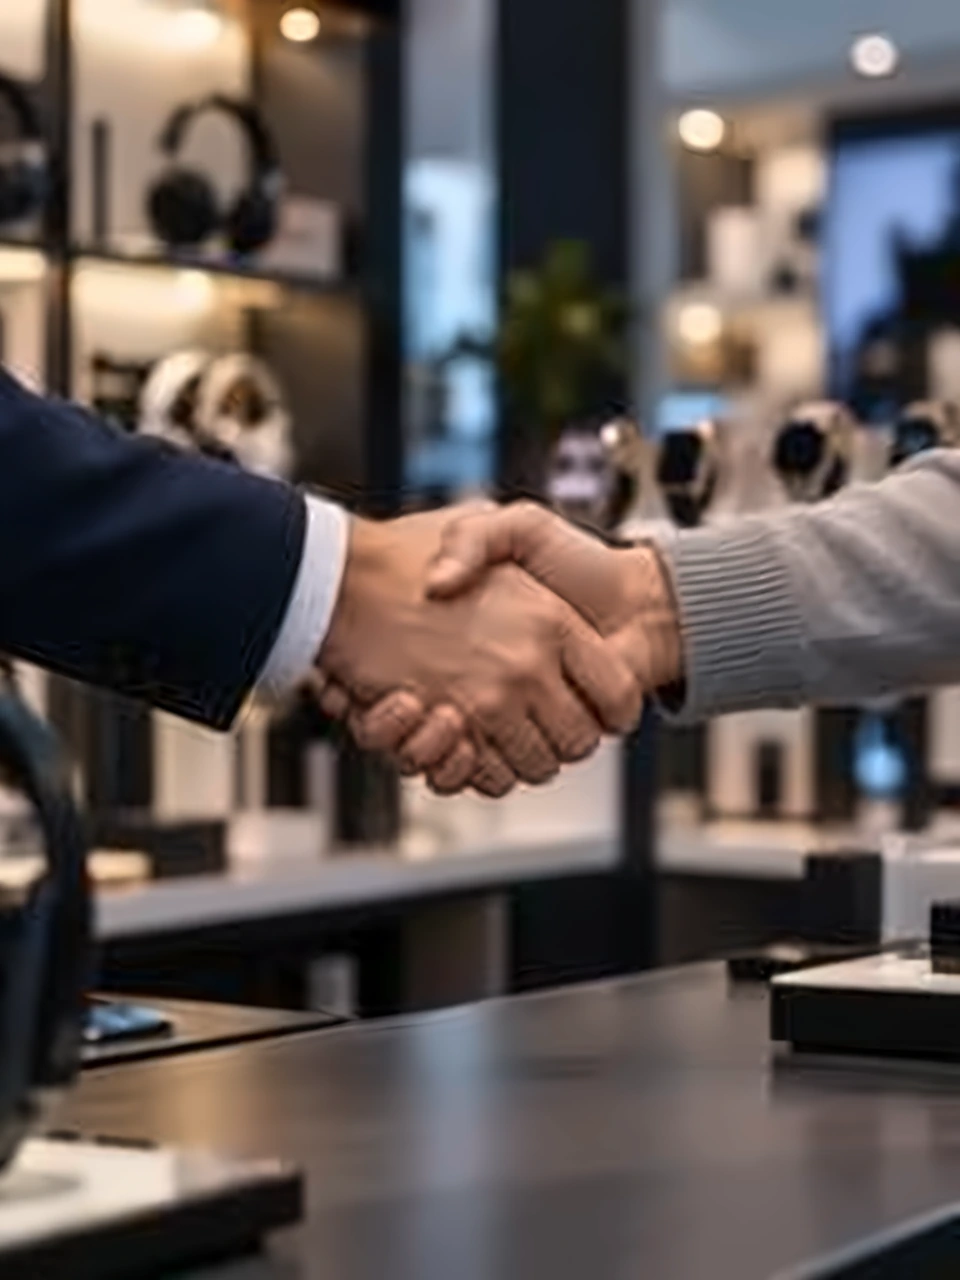
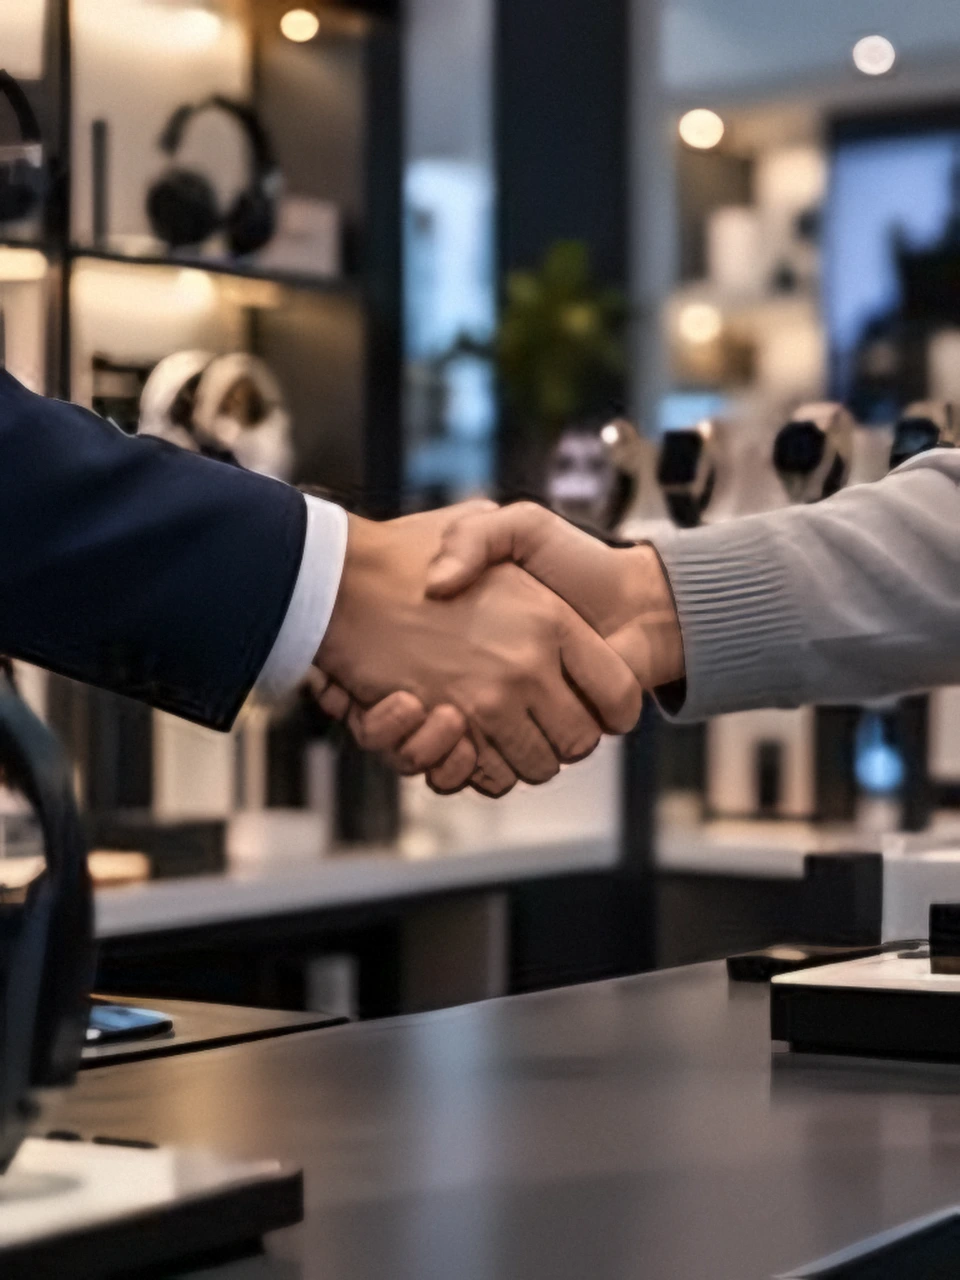
feat(video): sharper provisional in-store stills (EDSR + Real-ESRGAN blend, fine grain)
Still the 192x256 hosted previews (the full-resolution files are on www.figma.com, which the
sandbox network policy denies), but now upscaled with a 50/50 blend of two models: EDSR keeps the
natural textures (knit, skin) and Real-ESRGAN gives crisp edges (cuffs, fingers, tablet rim),
then a touch of fine grain restores photographic texture. The tablet quad re-measures to the same
pixels (+-1). upscale.py documents and reproduces the procedure.

Claude-Session: https://claude.ai/code/session_01UU8UtRBHeLvaLSRmxmduEJ

diff --git a/video/src/people.ts b/video/src/people.ts
@@ -23,8 +23,8 @@ export const HANDOFF_FG = staticFile("people/handoff-fg.webp");
  * border. Measured with `python3 tools/people/measure_quad.py public/people/handoff.webp` — re-run it if the image changes.
  */
 export const HANDOFF_QUAD: Quad = [
-  [229, 233],
-  [648, 216],
-  [702, 818],
+  [228, 231],
+  [649, 216],
+  [702, 819],
   [268, 849],
 ];

diff --git a/video/tools/people/upscale.py b/video/tools/people/upscale.py
@@ -1,22 +1,30 @@
 #!/usr/bin/env python3
 """Fallback for when only the 192x256 hosted previews of the AI stills are available (the full-resolution files sit on a host the
-sandbox network policy denies): removes the JPEG blocking, upscales 4x with EDSR and writes public/people/<id>.webp (960x1280).
+sandbox network policy denies): cleans the JPEG blocking, upscales 4x and writes public/people/<id>.webp (960x1280).
+
+Two upscalers are blended 50/50, because each fails differently on an ~8 KB preview: EDSR keeps natural textures (knit, skin) but is soft,
+Real-ESRGAN gives crisp edges but paints flat, illustration-like surfaces. A touch of fine grain then puts back photographic texture.
 
     curl -L -o EDSR_x4.pb https://raw.githubusercontent.com/Saafke/EDSR_Tensorflow/master/models/EDSR_x4.pb      # 38 MB, not committed
-    pip install opencv-contrib-python-headless
+    pip install realesrgan-ncnn-py && pip install --force-reinstall --no-deps opencv-contrib-python-headless
+    #   ^ the wheel bundles the Real-ESRGAN models but pulls in plain opencv-python (no dnn_superres): reinstall the contrib build last
+    sudo apt-get install libomp5-18 mesa-vulkan-drivers libvulkan1                      # Linux without a GPU: software Vulkan (lavapipe)
     python3 tools/people/upscale.py --model EDSR_x4.pb [handoff bag handshake store]
 
 Reads tools/people/previews/<id>.jpg. An upscaler cannot recover detail that is not in the preview, so these files are PROVISIONAL:
 `node tools/people/fetch.mjs` replaces them with the real full-resolution images (then re-run measure_quad.py on the hand-off).
+Without Real-ESRGAN installed the script falls back to EDSR alone (`--no-esrgan` forces that).
 """
 import argparse
 import pathlib
 import sys
 
 import cv2
+import numpy as np
 
 ROOT = pathlib.Path(__file__).resolve().parents[2]
 ALL = ["handoff", "bag", "handshake", "store"]
+ESRGAN_X4PLUS = 3  # index of "realesrgan-x4plus" (the photographic model) in realesrgan-ncnn-py
 
 
 def main() -> int:
@@ -24,23 +32,42 @@ def main() -> int:
     ap.add_argument("ids", nargs="*", default=ALL)
     ap.add_argument("--model", default="EDSR_x4.pb", help="path to EDSR_x4.pb")
     ap.add_argument("--out", default=str(ROOT / "public" / "people"))
+    ap.add_argument("--no-esrgan", action="store_true", help="EDSR only")
+    ap.add_argument("--grain", type=float, default=3.2, help="sigma of the fine grain added at the end (0-255 scale)")
     a = ap.parse_args()
 
     sr = cv2.dnn_superres.DnnSuperResImpl.create()
     sr.readModel(a.model)
     sr.setModel("edsr", 4)
+    esr = None
+    if not a.no_esrgan:
+        try:
+            from PIL import Image
+            from realesrgan_ncnn_py import Realesrgan
+
+            esr = Realesrgan(gpuid=0, tta_mode=False, tilesize=0, model=ESRGAN_X4PLUS)
+        except Exception as e:  # noqa: BLE001 - optional dependency
+            print(f"(Real-ESRGAN unavailable: {e}; using EDSR alone)", file=sys.stderr)
+
     for i in a.ids:
         img = cv2.imread(str(ROOT / "tools" / "people" / "previews" / f"{i}.jpg"))
         if img is None:
             print(f"✗ {i}: no preview", file=sys.stderr)
             return 1
         img = cv2.fastNlMeansDenoisingColored(img, None, 3, 3, 5, 15)  # the previews are ~8 KB JPEGs: take the blocking out first
-        up = sr.upsample(img)  # 768 x 1024
-        up = cv2.resize(up, (960, 1280), interpolation=cv2.INTER_LANCZOS4)
-        up = cv2.addWeighted(up, 1.35, cv2.GaussianBlur(up, (0, 0), 1.3), -0.35, 0)  # mild unsharp mask
+        up = cv2.resize(sr.upsample(img), (960, 1280), interpolation=cv2.INTER_LANCZOS4)
+        up = cv2.addWeighted(up, 1.35, cv2.GaussianBlur(up, (0, 0), 1.3), -0.35, 0)  # mild unsharp mask on the EDSR branch
+        if esr is not None:
+            out = esr.process_pil(Image.fromarray(cv2.cvtColor(img, cv2.COLOR_BGR2RGB)))
+            gan = cv2.resize(cv2.cvtColor(np.asarray(out), cv2.COLOR_RGB2BGR), (960, 1280), interpolation=cv2.INTER_LANCZOS4)
+            up = cv2.addWeighted(up, 0.5, gan, 0.5, 0)
+        if a.grain > 0:
+            rng = np.random.default_rng(sum(map(ord, i)))
+            g = cv2.GaussianBlur(rng.normal(0, a.grain, up.shape[:2]).astype(np.float32), (0, 0), 0.6)
+            up = np.clip(up.astype(np.float32) + g[..., None], 0, 255).astype(np.uint8)
         dst = pathlib.Path(a.out) / f"{i}.webp"
         cv2.imwrite(str(dst), up, [cv2.IMWRITE_WEBP_QUALITY, 92])
-        print(f"✓ {i}: {img.shape[1]}x{img.shape[0]} → {up.shape[1]}x{up.shape[0]} → {dst.relative_to(ROOT)} ({dst.stat().st_size // 1024} KB)")
+        print(f"✓ {i}: 192x256 → {up.shape[1]}x{up.shape[0]} → {dst.relative_to(ROOT)} ({dst.stat().st_size // 1024} KB){' [EDSR + Real-ESRGAN]' if esr else ' [EDSR]'}")
     return 0
 
 

diff --git a/video/tools/people/README.md b/video/tools/people/README.md
@@ -20,7 +20,7 @@ render the film.
 ## Current status — provisional images
 
 The committed `public/people/*.webp` are the 192 × 256 hosted previews (`previews/`), cleaned of JPEG blocking and upscaled 4× with
-EDSR (`upscale.py`). They hold up in the film — the stills are graded, grained and always moving — but an upscaler cannot add detail
+a 50/50 blend of EDSR and Real-ESRGAN plus fine grain (`upscale.py`). They hold up in the film — the stills are graded, grained and always moving — but an upscaler cannot add detail
 that was never in the preview, so the hands are softer than the real files will be. The full-resolution originals are hosted on
 `www.figma.com`, which the sandbox's network policy denied when the film was made. To upgrade: allow that host (environment settings →
 Network access → Allowed domains), run `node tools/people/fetch.mjs`, re-run `measure_quad.py` on the hand-off (the glass does not
@@ -39,8 +39,8 @@ FFMPEG=/path/to/ffmpeg node tools/people/fetch.mjs bag handshake
 The script never touches TLS settings or the proxy. If the host is denied by the environment's network policy it says which
 host to allow (Allowed domains, with the package-manager list left ticked).
 
-`upscale.py` is the fallback that produced the provisional files (needs `opencv-contrib-python-headless` and the 38 MB `EDSR_x4.pb`,
-see its header).
+`upscale.py` is the fallback that produced the provisional files (needs `opencv-contrib-python-headless`, `realesrgan-ncnn-py` and the 38 MB
+`EDSR_x4.pb`; on a machine without a GPU also a software Vulkan driver — see its header).
 
 ## After replacing an image
 
